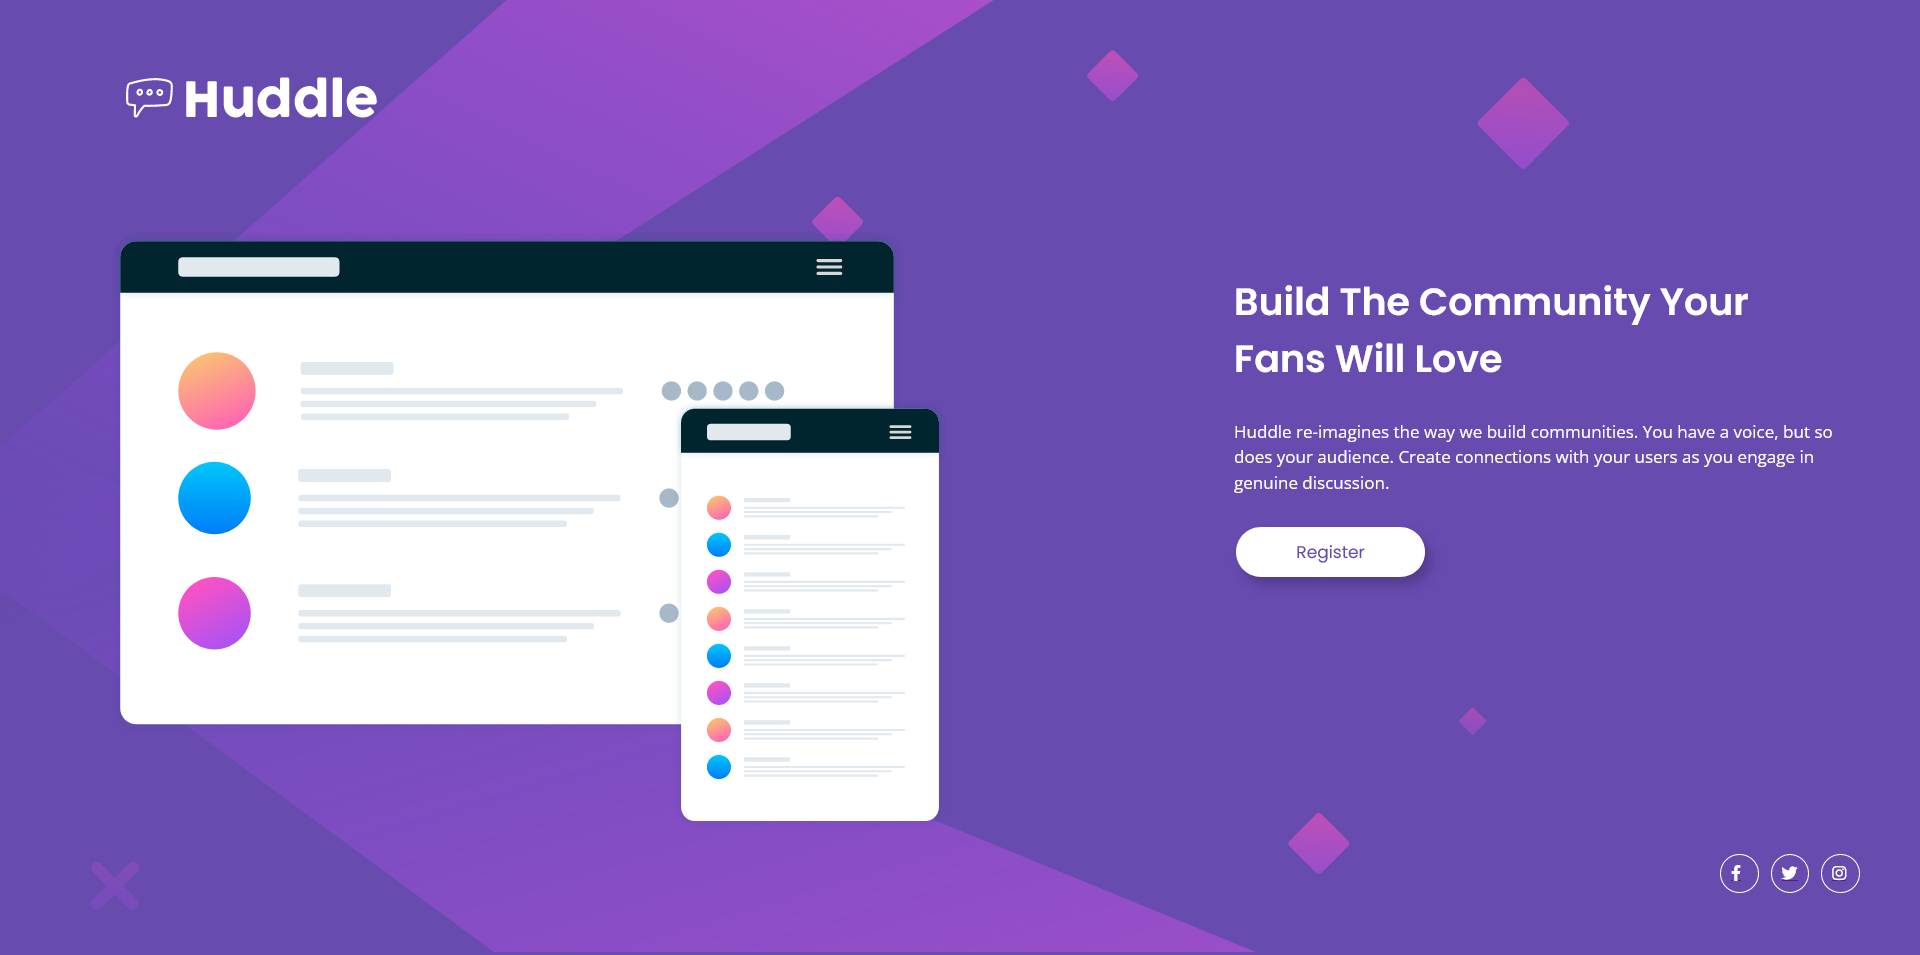
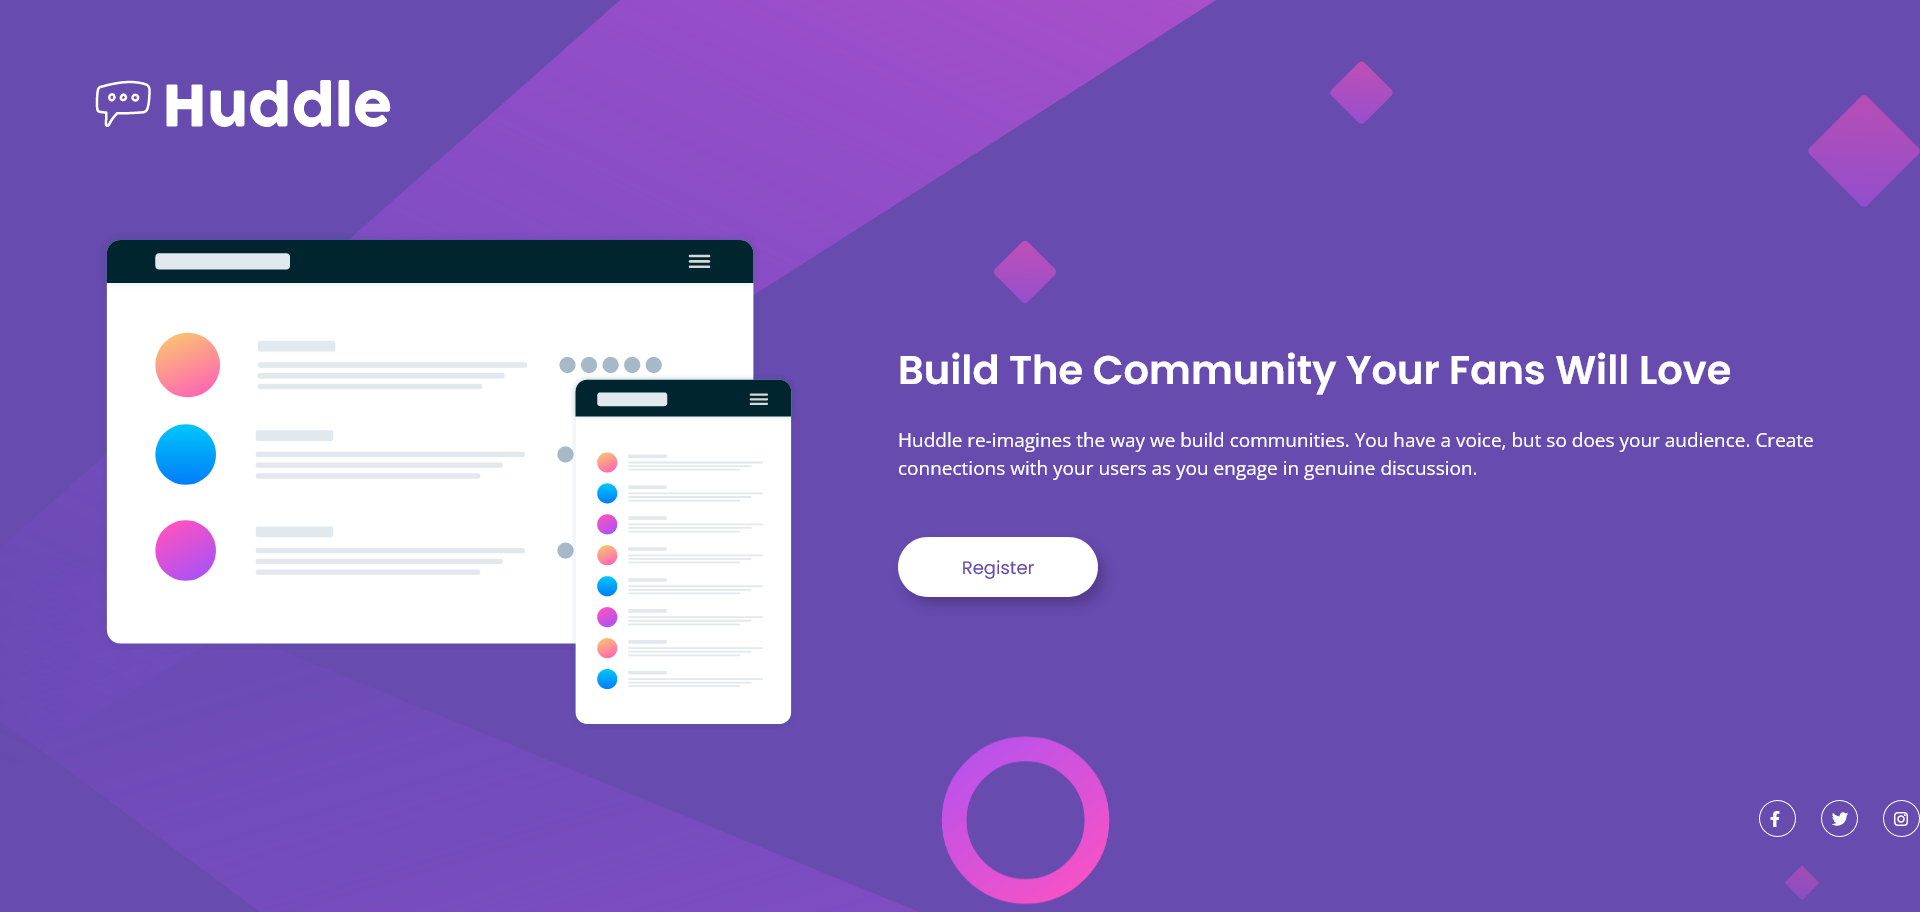
Updated CSS and screenshot img

diff --git a/css/main.css b/css/main.css
@@ -453,8 +453,17 @@
       margin: 1.875rem 0 1.563rem 6.313rem;
      }
 
+     .contact {
+      padding: 2.5rem 4.375rem /*70px*/ 0 0;
+     }
+
      .contact .social-icons {
       padding: 0.625rem;
+     }
+
+     .contact .social-icons i {
+      width: 0.938rem;
+      height: 0.938rem;
      }
     }
     
